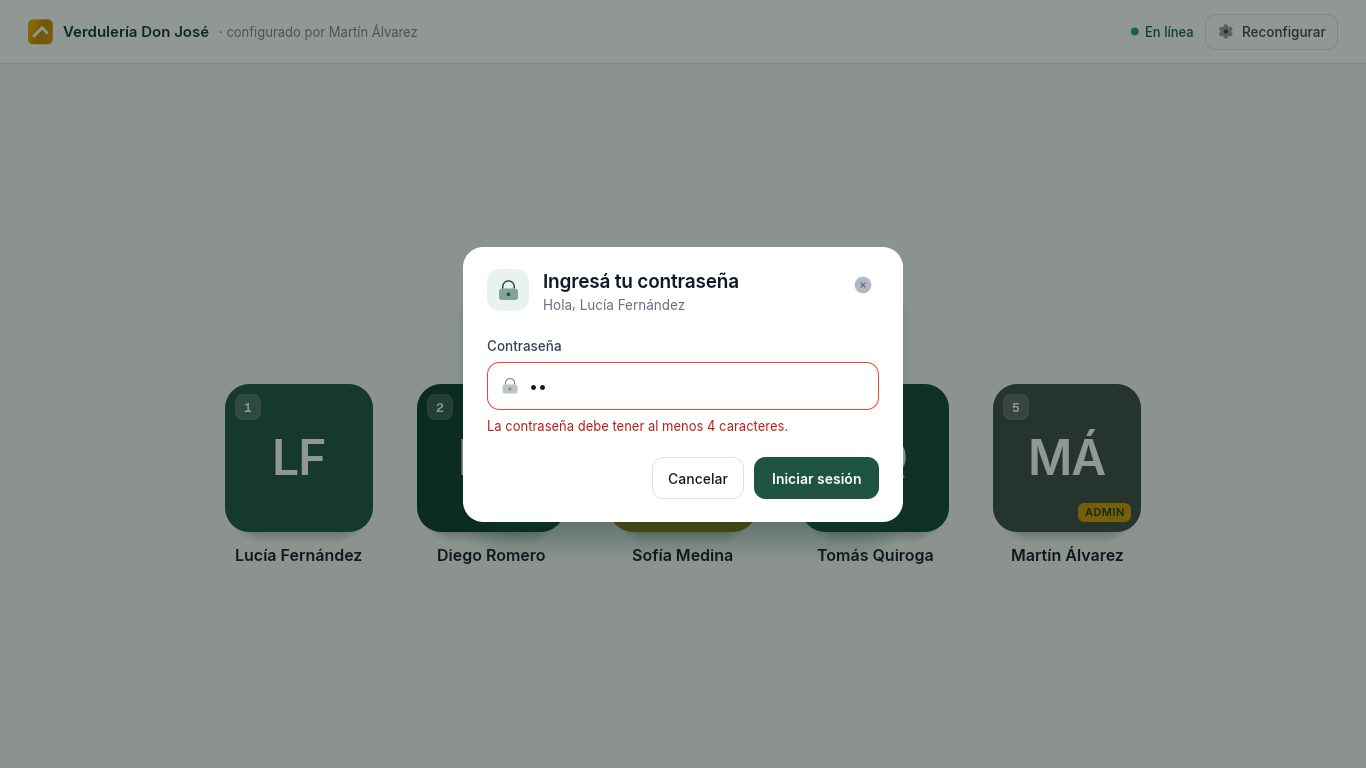
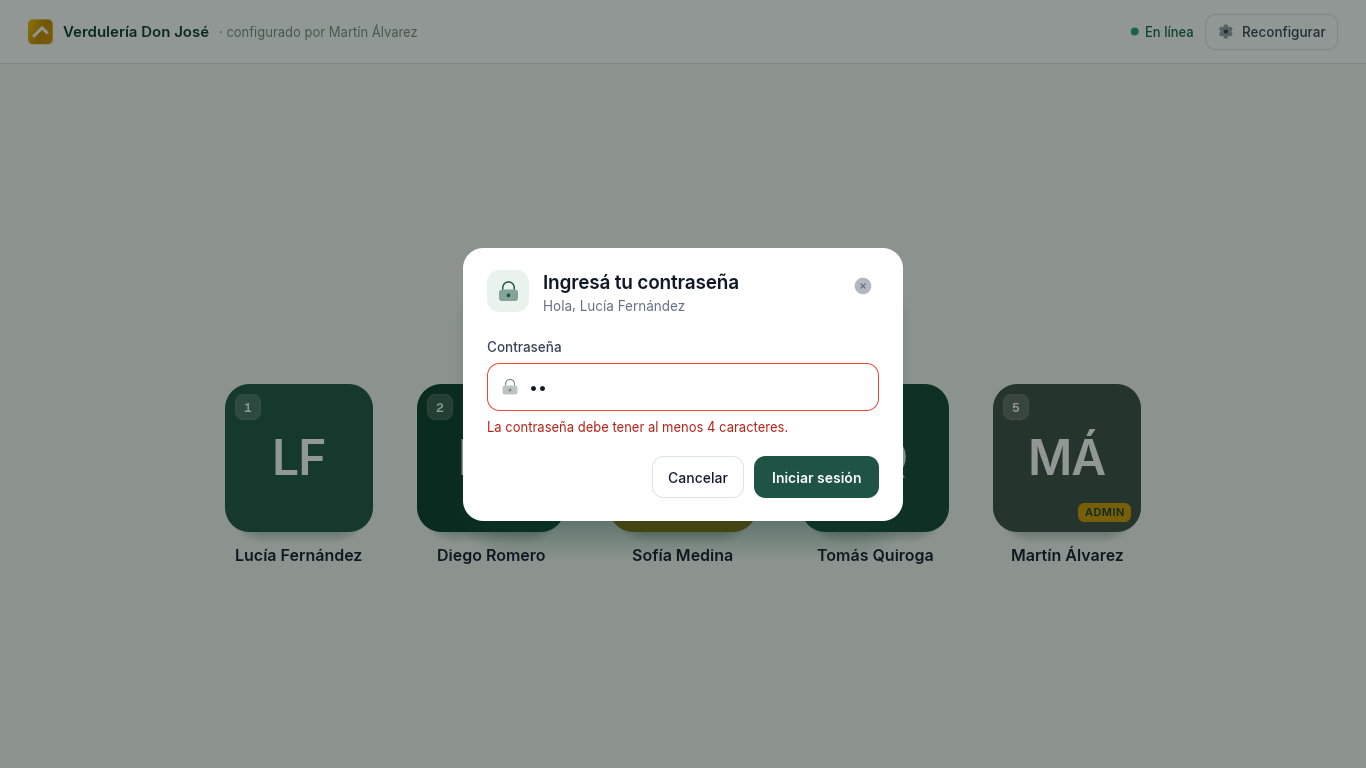
wip: rediseño sesion (segundo guardado parcial)

diff --git a/apps/andexmarket/src/pantallas/admin_login.rs b/apps/andexmarket/src/pantallas/admin_login.rs
@@ -176,21 +176,22 @@ impl AdminLogin {
         }
         ui.add_space(22.0);
 
+        let boton = Boton::primario(if cargando { "Configurando…" } else { "Configurar negocio" })
+            .icono("store")
+            .alto(48.0)
+            .ancho(ancho)
+            .tam_texto(15.0)
+            .tam_icono(19.0)
+            .separacion(10.0)
+            .cargando(cargando);
         let boton = ui
             .scope(|ui| {
                 if cargando {
                     ui.set_opacity(0.75);
+                    boton.sin_sombra().ui(ui)
+                } else {
+                    boton.ui(ui)
                 }
-                let boton = Boton::primario(if cargando { "Configurando…" } else { "Configurar negocio" });
-                if cargando { boton.sin_sombra() } else { boton }
-                    .icono("store")
-                    .alto(48.0)
-                    .ancho(ancho)
-                    .tam_texto(15.0)
-                    .tam_icono(19.0)
-                    .separacion(10.0)
-                    .cargando(cargando)
-                    .ui(ui)
             })
             .inner;
         ui.add_space(22.0);

diff --git a/apps/andexmarket/src/pantallas/usuario_login.rs b/apps/andexmarket/src/pantallas/usuario_login.rs
@@ -243,7 +243,6 @@ impl UsuarioLogin {
                     v2::texto(ui, error, 13.0, Peso::Normal, color::ROJO);
                 }
             });
-            ui.add_space(2.0);
             pie_modal(ui, |ui| {
                 let principal = Boton::primario(if iniciando { "Ingresando…" } else { "Iniciar sesión" }).modal().tam_texto(14.0).cargando(iniciando);
                 if principal.ui(ui).clicked() {
